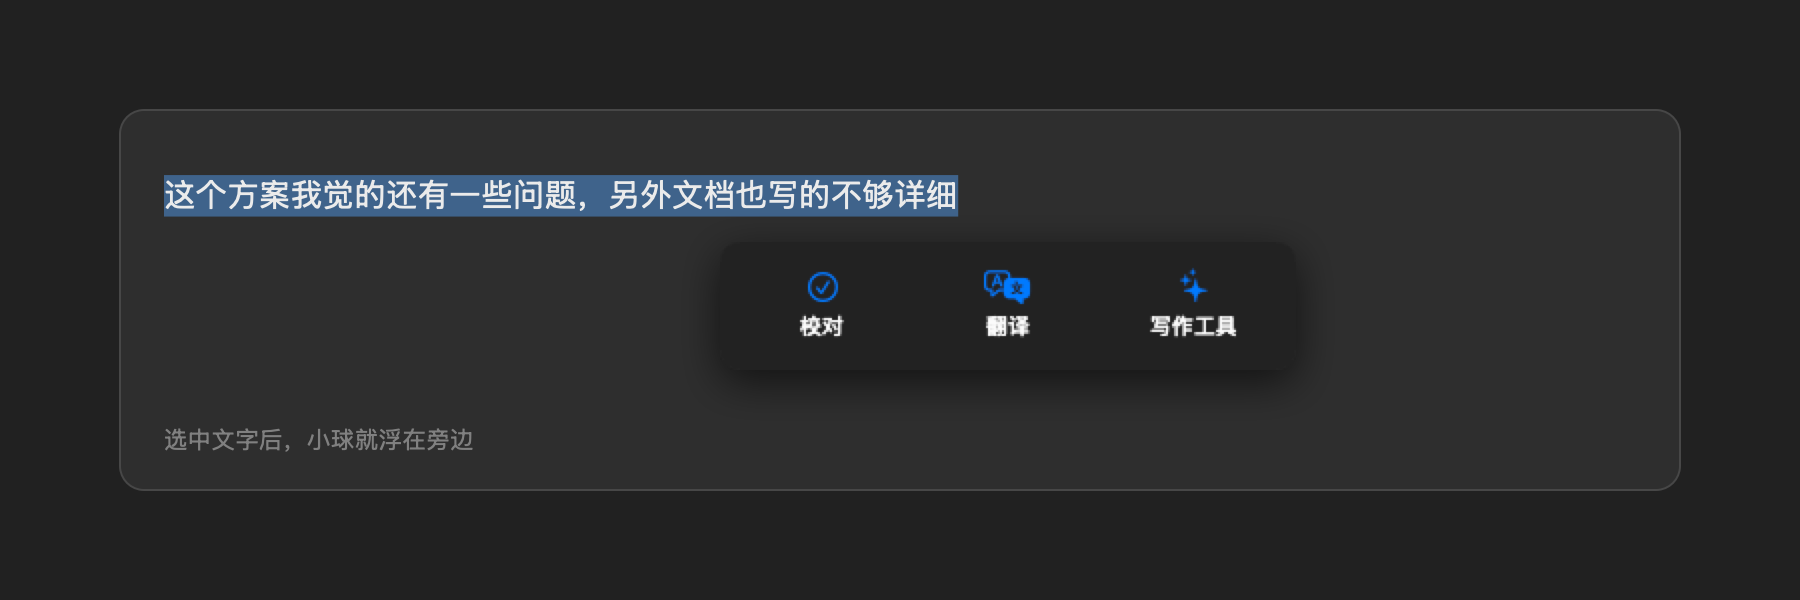
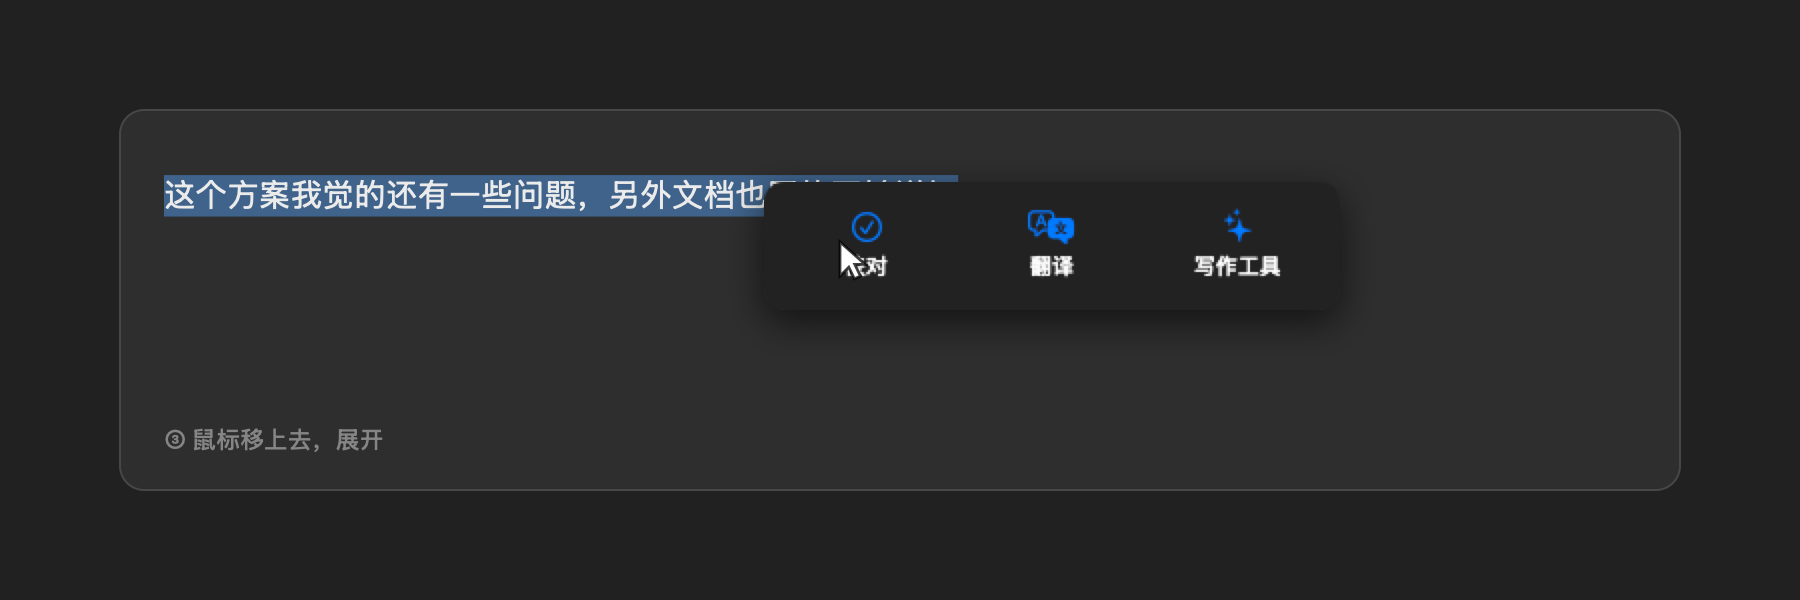
Animate the gesture, and name the More chip
The still showed the menu already open, which skips the part that needs
explaining: that a bubble appears beside the selection and opens on hover. The
artwork is now a four-step animation — select, bubble, hover, replaced — in
both themes and both languages, about 40 KB each.

It still renders from the app's own views. The collapsed bubble moved out of
BubbleController into BubbleBallView so the animation can use the real thing
rather than a drawing of it that would drift.

Also: "use ✨" didn't say what to click. The chip is called More, so the text
now says so.

diff --git a/tools/MakeScreenshot/main.swift b/tools/MakeScreenshot/main.swift
@@ -1,12 +1,36 @@
 import AppKit
+import ImageIO
+import UniformTypeIdentifiers
 
-// Renders the real ActionMenuView beside a mocked-up text field, so the README shows the
-// actual interface rather than an approximation of it that can drift out of date.
+// Renders the README artwork from the views the app itself instantiates, so the pictures
+// cannot drift from the interface. Emits stills and an animation of the whole gesture.
 let W: CGFloat = 900, H: CGFloat = 300
+let scale: CGFloat = 2
 
-func draw(_ appearance: NSAppearance.Name, chinese: Bool, to path: String) {
+enum Stage { case selected, ball, menu, done }
+
+let boxRect = NSRect(x: 60, y: 55, width: W - 120, height: 190)
+let textOrigin = NSPoint(x: boxRect.minX + 22, y: boxRect.maxY - 52)
+
+func cursor(at p: NSPoint) {
+    let path = NSBezierPath()
+    path.move(to: p)
+    path.line(to: NSPoint(x: p.x, y: p.y - 17))
+    path.line(to: NSPoint(x: p.x + 4.4, y: p.y - 12.6))
+    path.line(to: NSPoint(x: p.x + 7.2, y: p.y - 18.4))
+    path.line(to: NSPoint(x: p.x + 10.2, y: p.y - 17))
+    path.line(to: NSPoint(x: p.x + 7.4, y: p.y - 11.2))
+    path.line(to: NSPoint(x: p.x + 12.6, y: p.y - 11.2))
+    path.close()
+    NSColor.black.withAlphaComponent(0.75).setStroke()
+    NSColor.white.setFill()
+    path.fill()
+    path.lineWidth = 1.4
+    path.stroke()
+}
+
+func render(_ stage: Stage, _ appearance: NSAppearance.Name, chinese: Bool) -> CGImage {
     L10n.isChinese = chinese
-    let scale: CGFloat = 2
     let rep = NSBitmapImageRep(bitmapDataPlanes: nil,
                                pixelsWide: Int(W * scale), pixelsHigh: Int(H * scale),
                                bitsPerSample: 8, samplesPerPixel: 4, hasAlpha: true,
@@ -15,81 +39,119 @@ func draw(_ appearance: NSAppearance.Name, chinese: Bool, to path: String) {
     rep.size = NSSize(width: W, height: H)
 
     NSGraphicsContext.saveGraphicsState()
-    let gctx = NSGraphicsContext(bitmapImageRep: rep)!
-    NSGraphicsContext.current = gctx
+    NSGraphicsContext.current = NSGraphicsContext(bitmapImageRep: rep)!
     let appear = NSAppearance(named: appearance)!
     appear.performAsCurrentDrawingAppearance {
         let dark = appearance == .darkAqua
-
-        // Backdrop
         (dark ? NSColor(white: 0.13, alpha: 1) : NSColor(white: 0.96, alpha: 1)).setFill()
         NSRect(x: 0, y: 0, width: W, height: H).fill()
 
-        // A message composer, the situation this is actually used in
-        let box = NSRect(x: 60, y: 55, width: W - 120, height: 190)
         (dark ? NSColor(white: 0.18, alpha: 1) : .white).setFill()
-        let boxPath = NSBezierPath(roundedRect: box, xRadius: 12, yRadius: 12)
-        boxPath.fill()
+        let box = NSBezierPath(roundedRect: boxRect, xRadius: 12, yRadius: 12)
+        box.fill()
         (dark ? NSColor(white: 0.28, alpha: 1) : NSColor(white: 0.86, alpha: 1)).setStroke()
-        boxPath.lineWidth = 1
-        boxPath.stroke()
+        box.lineWidth = 1
+        box.stroke()
 
-        let body = NSFont.systemFont(ofSize: 16)
-        let text = chinese
-            ? "这个方案我觉的还有一些问题，另外文档也写的不够详细"
-            : "hi team, the migration is takeing longer then expected"
-        let attrs: [NSAttributedString.Key: Any] = [
-            .font: body,
+        let corrected = stage == .done
+        let body = chinese
+            ? (corrected ? "这个方案我觉得还有一些问题，另外文档也写得不够详细"
+                         : "这个方案我觉的还有一些问题，另外文档也写的不够详细")
+            : (corrected ? "Hi team, the migration is taking longer than expected."
+                         : "hi team, the migration is takeing longer then expected")
+        var attrs: [NSAttributedString.Key: Any] = [
+            .font: NSFont.systemFont(ofSize: 16),
             .foregroundColor: dark ? NSColor(white: 0.92, alpha: 1) : NSColor(white: 0.12, alpha: 1),
-            .backgroundColor: NSColor.selectedTextBackgroundColor,
         ]
-        NSAttributedString(string: text, attributes: attrs)
-            .draw(at: NSPoint(x: box.minX + 22, y: box.maxY - 52))
+        if !corrected { attrs[.backgroundColor] = NSColor.selectedTextBackgroundColor }
+        NSAttributedString(string: body, attributes: attrs).draw(at: textOrigin)
 
-        let hint = NSAttributedString(string: chinese
-            ? "选中文字后，小球就浮在旁边"
-            : "Select text and the bubble appears beside it", attributes: [
-            .font: NSFont.systemFont(ofSize: 12),
-            .foregroundColor: dark ? NSColor(white: 0.5, alpha: 1) : NSColor(white: 0.58, alpha: 1),
-        ])
-        hint.draw(at: NSPoint(x: box.minX + 22, y: box.minY + 18))
+        let captions: [Stage: String] = chinese
+            ? [.selected: "① 选中文字", .ball: "② 小球浮在旁边",
+               .menu: "③ 鼠标移上去，展开", .done: "④ 改好，原地替换"]
+            : [.selected: "1 · Select text", .ball: "2 · The bubble appears",
+               .menu: "3 · Hover, and it opens", .done: "4 · Replaced in place"]
+        NSAttributedString(string: captions[stage] ?? "", attributes: [
+            .font: NSFont.systemFont(ofSize: 12, weight: .medium),
+            .foregroundColor: dark ? NSColor(white: 0.52, alpha: 1) : NSColor(white: 0.55, alpha: 1),
+        ]).draw(at: NSPoint(x: boxRect.minX + 22, y: boxRect.minY + 18))
 
-        // The genuine article, laid out by the same code the app runs
-        let menu = ActionMenuView(proofreadEnabled: true)
-        let size = ActionMenuView.preferredSize
-        let host = NSVisualEffectView(frame: NSRect(origin: .zero, size: size))
-        host.material = .popover
-        host.state = .active
-        host.blendingMode = .withinWindow
-        host.appearance = appear
-        host.wantsLayer = true
-        host.layer?.cornerRadius = 10
-        host.layer?.masksToBounds = true
-        menu.frame = host.bounds
-        host.addSubview(menu)
-        host.layoutSubtreeIfNeeded()
-
-        let origin = NSPoint(x: box.minX + 300, y: box.maxY - 130)
-        NSGraphicsContext.current?.cgContext.saveGState()
-        NSGraphicsContext.current?.cgContext.setShadow(
-            offset: CGSize(width: 0, height: -6), blur: 22,
-            color: NSColor.black.withAlphaComponent(dark ? 0.6 : 0.22).cgColor)
-        if let bubbleRep = host.bitmapImageRepForCachingDisplay(in: host.bounds) {
-            host.cacheDisplay(in: host.bounds, to: bubbleRep)
-            NSImage(size: size, flipped: false) { r in bubbleRep.draw(in: r); return true }
+        func place(_ view: NSView, at origin: NSPoint, radius: CGFloat) {
+            let host = NSVisualEffectView(frame: NSRect(origin: .zero, size: view.frame.size))
+            host.material = .popover
+            host.state = .active
+            host.blendingMode = .withinWindow
+            host.appearance = appear
+            host.wantsLayer = true
+            host.layer?.cornerRadius = radius
+            host.layer?.masksToBounds = true
+            view.frame = host.bounds
+            host.addSubview(view)
+            host.layoutSubtreeIfNeeded()
+            guard let r = host.bitmapImageRepForCachingDisplay(in: host.bounds) else { return }
+            host.cacheDisplay(in: host.bounds, to: r)
+            NSGraphicsContext.current?.cgContext.saveGState()
+            NSGraphicsContext.current?.cgContext.setShadow(
+                offset: CGSize(width: 0, height: -6), blur: 20,
+                color: NSColor.black.withAlphaComponent(dark ? 0.6 : 0.22).cgColor)
+            NSImage(size: host.frame.size, flipped: false) { rect in r.draw(in: rect); return true }
                 .draw(at: origin, from: .zero, operation: .sourceOver, fraction: 1)
+            NSGraphicsContext.current?.cgContext.restoreGState()
         }
-        NSGraphicsContext.current?.cgContext.restoreGState()
+
+        let ballOrigin = NSPoint(x: textOrigin.x + 300, y: textOrigin.y - 48)
+        switch stage {
+        case .selected:
+            cursor(at: NSPoint(x: textOrigin.x + 292, y: textOrigin.y + 4))
+        case .ball:
+            place(BubbleBallView(), at: ballOrigin, radius: BubbleBallView.preferredSize.height / 2)
+            cursor(at: NSPoint(x: ballOrigin.x + 34, y: ballOrigin.y + 6))
+        case .menu:
+            place(ActionMenuView(proofreadEnabled: true), at: ballOrigin, radius: 10)
+            cursor(at: NSPoint(x: ballOrigin.x + 38, y: ballOrigin.y + 34))
+        case .done:
+            break
+        }
     }
     NSGraphicsContext.restoreGraphicsState()
-    try! rep.representation(using: .png, properties: [:])!.write(to: URL(fileURLWithPath: path))
+    return rep.cgImage!
+}
+
+func writePNG(_ image: CGImage, _ path: String) {
+    let url = URL(fileURLWithPath: path) as CFURL
+    guard let d = CGImageDestinationCreateWithURL(url, UTType.png.identifier as CFString, 1, nil)
+    else { return }
+    CGImageDestinationAddImage(d, image, nil)
+    CGImageDestinationFinalize(d)
+    print("  \(path)")
+}
+
+func writeGIF(_ frames: [(CGImage, Double)], _ path: String) {
+    let url = URL(fileURLWithPath: path) as CFURL
+    guard let d = CGImageDestinationCreateWithURL(url, UTType.gif.identifier as CFString,
+                                                  frames.count, nil) else { return }
+    CGImageDestinationSetProperties(d, [kCGImagePropertyGIFDictionary: [
+        kCGImagePropertyGIFLoopCount: 0]] as CFDictionary)
+    for (image, delay) in frames {
+        CGImageDestinationAddImage(d, image, [kCGImagePropertyGIFDictionary: [
+            kCGImagePropertyGIFDelayTime: delay]] as CFDictionary)
+    }
+    CGImageDestinationFinalize(d)
     print("  \(path)")
 }
 
 let app = NSApplication.shared
 app.setActivationPolicy(.prohibited)
 let out = CommandLine.arguments[1]
-draw(.aqua, chinese: false, to: "\(out)/bubble-light.png")
-draw(.darkAqua, chinese: false, to: "\(out)/bubble-dark.png")
-draw(.aqua, chinese: true, to: "\(out)/bubble-light-zh.png")
-draw(.darkAqua, chinese: true, to: "\(out)/bubble-dark-zh.png")
+
+for (suffix, chinese) in [("", false), ("-zh", true)] {
+    for (theme, name) in [(NSAppearance.Name.aqua, "light"), (.darkAqua, "dark")] {
+        writePNG(render(.menu, theme, chinese: chinese), "\(out)/bubble-\(name)\(suffix).png")
+        writeGIF([
+            (render(.selected, theme, chinese: chinese), 1.4),
+            (render(.ball, theme, chinese: chinese), 1.2),
+            (render(.menu, theme, chinese: chinese), 2.2),
+            (render(.done, theme, chinese: chinese), 2.0),
+        ], "\(out)/bubble-\(name)\(suffix).gif")
+    }
+}

diff --git a/Sources/ActionMenuView.swift b/Sources/ActionMenuView.swift
@@ -87,6 +87,39 @@ final class ActionChip: NSView {
     }
 }
 
+/// The collapsed bubble — the ✨ that appears beside a selection before you hover it.
+///
+/// Lives here rather than inside BubbleController so the README's artwork can render the
+/// real thing; a hand-drawn copy would drift the first time this changed.
+final class BubbleBallView: NSView {
+    static let preferredSize = NSSize(width: 30, height: 30)
+
+    var onClick: (() -> Void)?
+
+    init() {
+        super.init(frame: NSRect(origin: .zero, size: Self.preferredSize))
+
+        let symbol = NSImageView()
+        symbol.image = NSImage(systemSymbolName: "wand.and.sparkles",
+                               accessibilityDescription: L("写作工具", "Writing Tools"))?
+            .withSymbolConfiguration(.init(pointSize: 15, weight: .medium))
+        symbol.contentTintColor = NSColor.controlAccentColor
+        symbol.imageScaling = .scaleNone
+        symbol.translatesAutoresizingMaskIntoConstraints = false
+        addSubview(symbol)
+        NSLayoutConstraint.activate([
+            symbol.centerXAnchor.constraint(equalTo: centerXAnchor),
+            symbol.centerYAnchor.constraint(equalTo: centerYAnchor),
+        ])
+        toolTip = L("改写选中的文字", "Rewrite the selected text")
+    }
+
+    required init?(coder: NSCoder) { fatalError() }
+
+    override func acceptsFirstMouse(for event: NSEvent?) -> Bool { true }
+    override func mouseUp(with event: NSEvent) { onClick?() }
+}
+
 /// The expanded bubble: proofread, translate, and a way into Apple's own panel.
 final class ActionMenuView: NSView {
     static let preferredSize = NSSize(width: 288, height: 64)

diff --git a/Sources/BubbleController.swift b/Sources/BubbleController.swift
@@ -102,25 +102,8 @@ final class BubbleController: NSObject {
     }
 
     private func makeBallView() -> NSView {
-        let view = ClickThroughView()
-        let button = ClickThroughButton(title: "", target: self, action: #selector(expand))
-        button.translatesAutoresizingMaskIntoConstraints = false
-        button.isBordered = false
-        button.bezelStyle = .regularSquare
-        button.imageScaling = .scaleProportionallyUpOrDown
-        let cfg = NSImage.SymbolConfiguration(pointSize: 15, weight: .medium)
-        button.image = NSImage(systemSymbolName: "wand.and.sparkles",
-                               accessibilityDescription: L("写作工具", "Writing Tools"))?
-            .withSymbolConfiguration(cfg)
-        button.contentTintColor = .controlAccentColor
-        button.toolTip = L("改写选中的文字", "Rewrite the selected text")
-        view.addSubview(button)
-        NSLayoutConstraint.activate([
-            button.leadingAnchor.constraint(equalTo: view.leadingAnchor),
-            button.trailingAnchor.constraint(equalTo: view.trailingAnchor),
-            button.topAnchor.constraint(equalTo: view.topAnchor),
-            button.bottomAnchor.constraint(equalTo: view.bottomAnchor),
-        ])
+        let view = BubbleBallView()
+        view.onClick = { [weak self] in self?.expand() }
         return view
     }
 

diff --git a/README.md b/README.md
@@ -19,8 +19,8 @@ Select text anywhere, and a small ✨ bubble appears beside it. Hover, and it op
 three things:
 
 <picture>
-  <source media="(prefers-color-scheme: dark)" srcset="Resources/bubble-dark.png">
-  <img src="Resources/bubble-light.png" alt="Selected text with the bubble open beside it, showing Proofread, Translate and More">
+  <source media="(prefers-color-scheme: dark)" srcset="Resources/bubble-dark.gif">
+  <img src="Resources/bubble-light.gif" alt="Select text, a bubble appears beside it, hovering opens Proofread / Translate / More, and the text is replaced in place">
 </picture>
 
 - **Proofread** — fixes grammar, spelling and awkward phrasing, then replaces the text
@@ -40,7 +40,7 @@ three things:
 >
 > So expect Proofread to fix grammar well and go no further. It has no tone options and
 > no summarising, because a general model does those badly enough to be worse than not
-> offering them. Chinese is weaker than English. **For Apple's own quality, use ✨** —
+> offering them. Chinese is weaker than English. **For Apple's own quality, use the ✨ More chip** —
 > that hands the text to the real thing.
 >
 > The measurements behind all of this: [Quality ceiling](#quality-ceiling-why-inline-cant-match-apple).
@@ -263,7 +263,7 @@ toolkit. Two reasons it isn't worth it:
 - **It wouldn't close the real gap**, which is the transport: Apple edits ranges in
   place, we replace a whole selection.
 
-**Inline is the convenience path, ✨ is the quality path.** It puts your text into a real
+**Inline is the convenience path, ✨ More is the quality path.** It puts your text into a real
 `NSTextView` and calls `showWritingTools:`, so you get Apple's own adapters, prompts and
 accept/reject UI — in an app that was never going to offer them.
 
